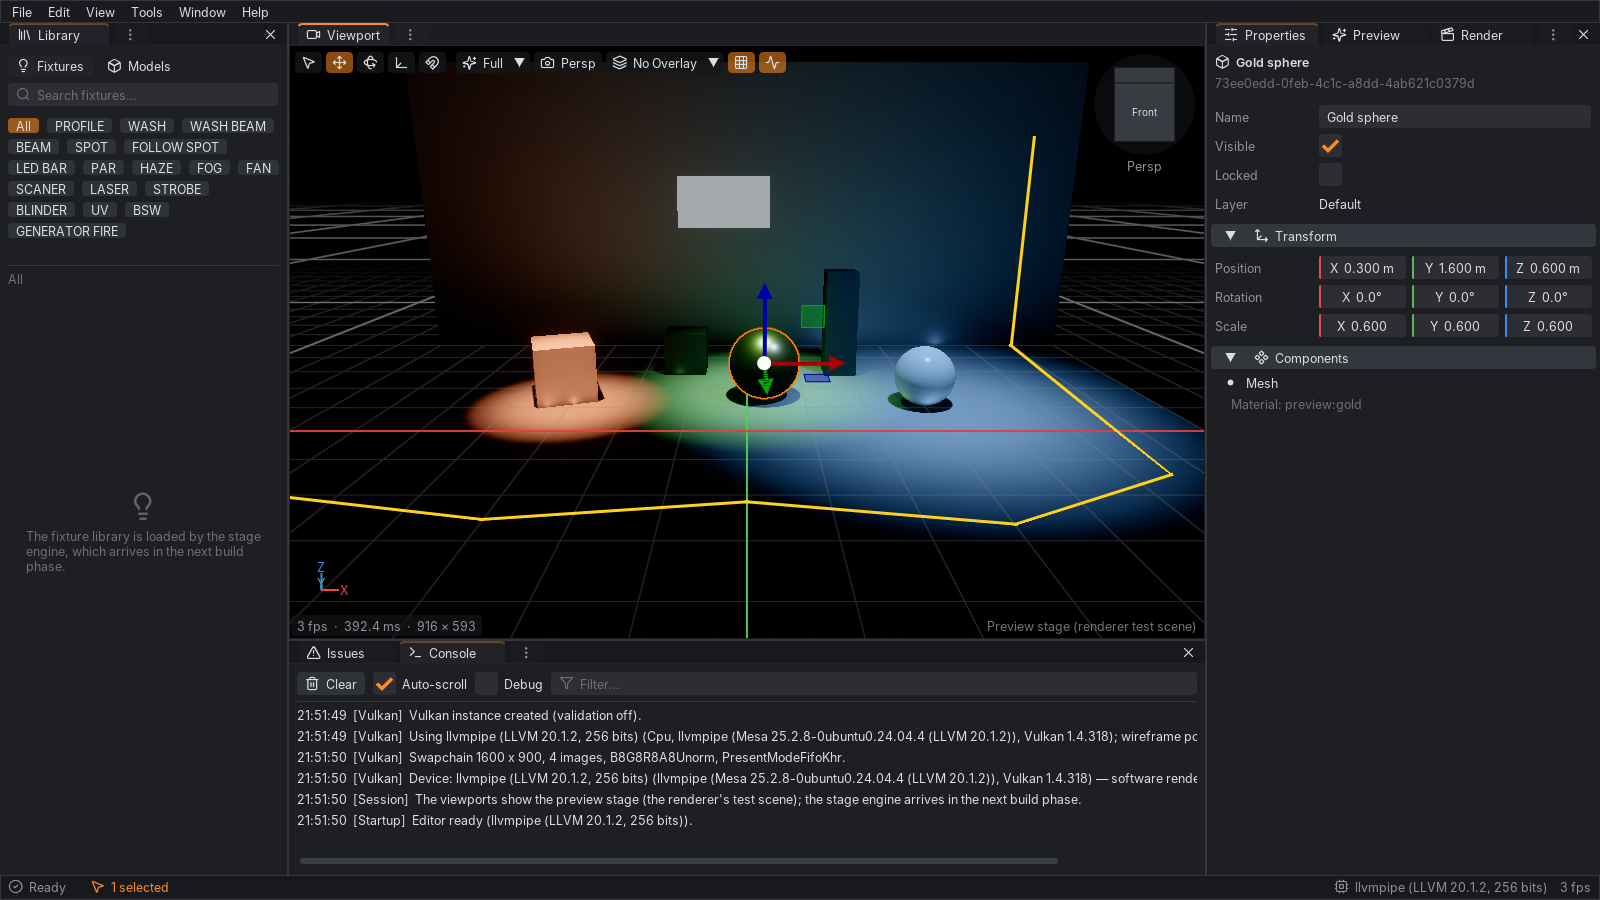
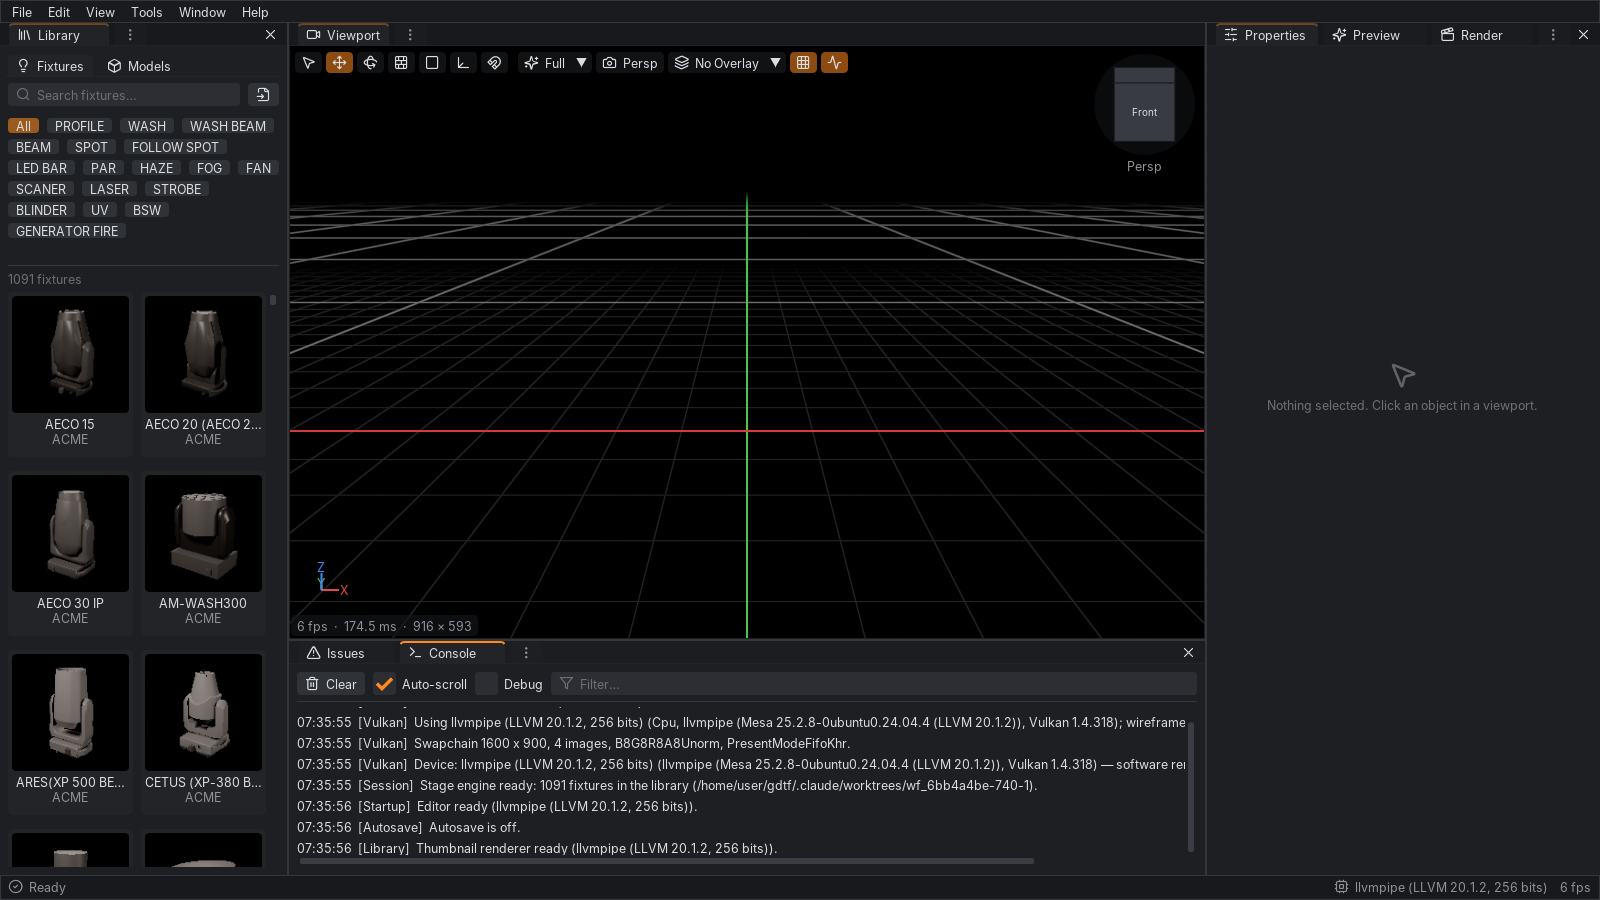
WIP: localised default scene name; documentation screenshots
Claude-Session: https://claude.ai/code/session_01YZGSkircgDTqeM2ggGKiHk

diff --git a/src/Candela.App/Viewport/ViewportPanel.Drawing.cs b/src/Candela.App/Viewport/ViewportPanel.Drawing.cs
@@ -332,12 +332,17 @@ internal sealed unsafe partial class ViewportPanel
         DrawSizeLabel(drawList, mouse, scale, width, height);
     }
 
-    /// <summary>The tool's one-line help, centred under the toolbar (wrapped in narrow views).</summary>
+    /// <summary>
+    /// The tool's help, centred at the bottom of the view above the statistics line (the top corners hold the toolbar
+    /// and the view cube); wrapped in narrow views.
+    /// </summary>
     private void DrawToolHint(ImDrawListPtr drawList, float scale, string hint)
     {
-        float wrap = MathF.Max(120f * scale, _imageSize.X - 40f * scale);
+        float wrap = MathF.Max(120f * scale, MathF.Min(_imageSize.X - 40f * scale, 620f * scale));
         var size = ImGui.CalcTextSize(hint, false, wrap);
-        var pos = new Vector2(_imageMin.X + (_imageSize.X - size.X) * 0.5f, MathF.Max(_toolbarBottom, _imageMin.Y) + 10f * scale);
+        float statsHeight = ShowStats ? ImGui.GetTextLineHeight() + 20f * scale : 8f * scale;
+        float top = _imageMin.Y + _imageSize.Y - statsHeight - size.Y - 16f * scale;
+        var pos = new Vector2(_imageMin.X + (_imageSize.X - size.X) * 0.5f, MathF.Max(top, MathF.Max(_toolbarBottom, _imageMin.Y) + 10f * scale));
         drawList.AddRectFilled(pos - new Vector2(10f, 5f) * scale, pos + size + new Vector2(10f, 5f) * scale,
             Theme.U32(Theme.WithAlpha(Theme.OverlayBackground, 0.85f)), 5f * scale);
         drawList.AddText(ImGui.GetFont(), ImGui.GetFontSize(), pos, Theme.U32(Theme.WithAlpha(Theme.Text, 0.9f)), hint, wrap);

diff --git a/src/Candela.App/Session/EditorSession.cs b/src/Candela.App/Session/EditorSession.cs
@@ -114,13 +114,16 @@ internal sealed class EditorSession : IDisposable
     /// <summary>True when the scene, its assets or its settings changed since it was opened or saved.</summary>
     public bool IsModified => _options.PreviewStage ? Scene.Version != _previewBaseline : EngineOrThrow.IsModified;
 
-    /// <summary>Name for the title bar: the scene's name, else the file name.</summary>
+    /// <summary>
+    /// Name for the title bar and dialogs: the scene's name; for a scene still called "Untitled" the file name, else
+    /// "Untitled" in the current language.
+    /// </summary>
     public string DisplayName
     {
         get
         {
             string name = Scene.Name;
-            if (!string.IsNullOrWhiteSpace(name))
+            if (!IsDefaultName(name))
                 return name;
             return SourcePath is { Length: > 0 } path ? Path.GetFileNameWithoutExtension(path) : Loc.Get(Str.Untitled);
         }
